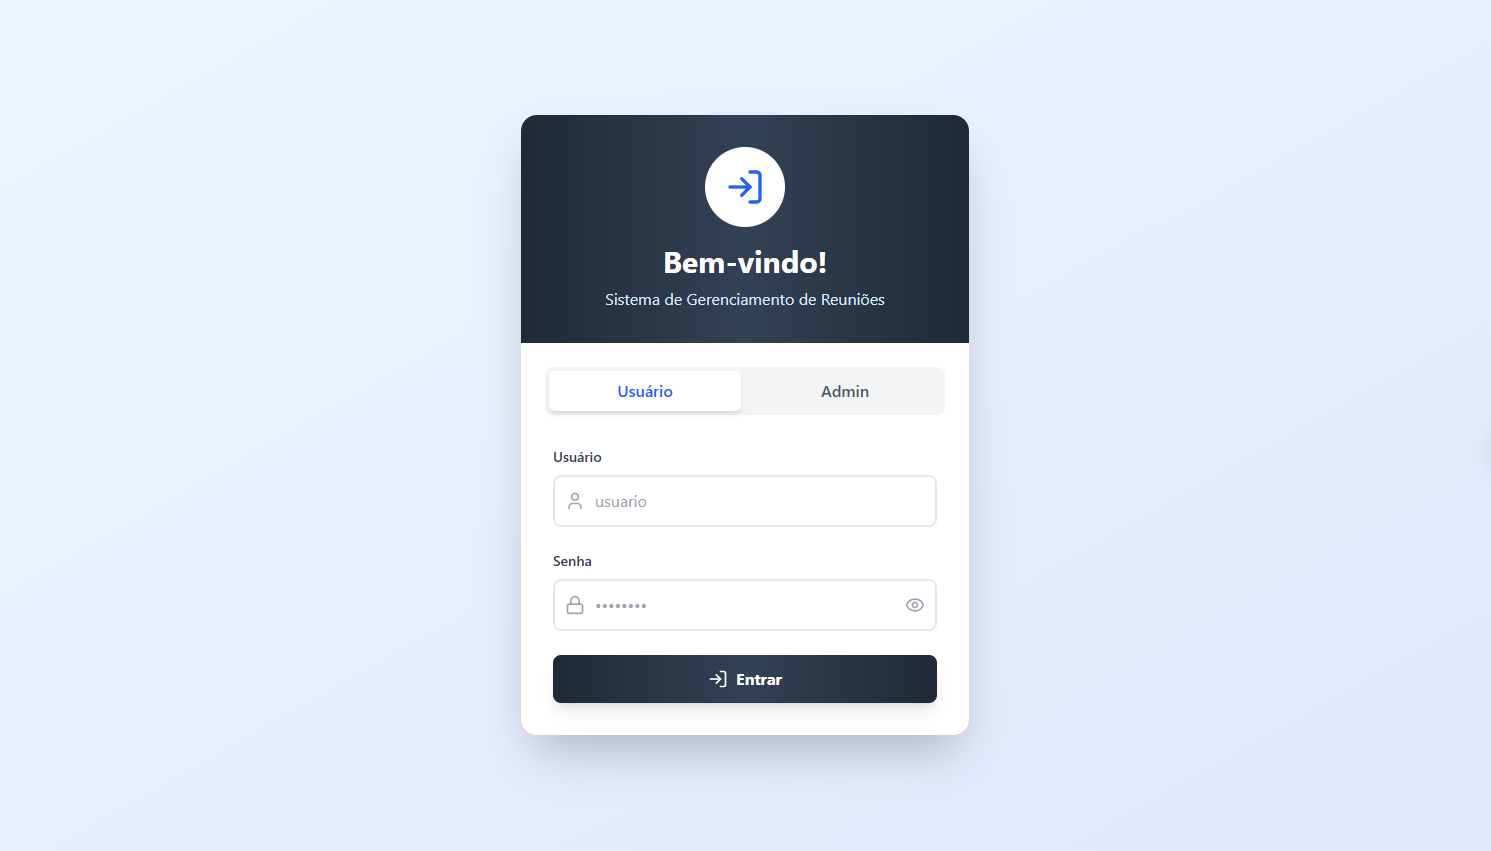
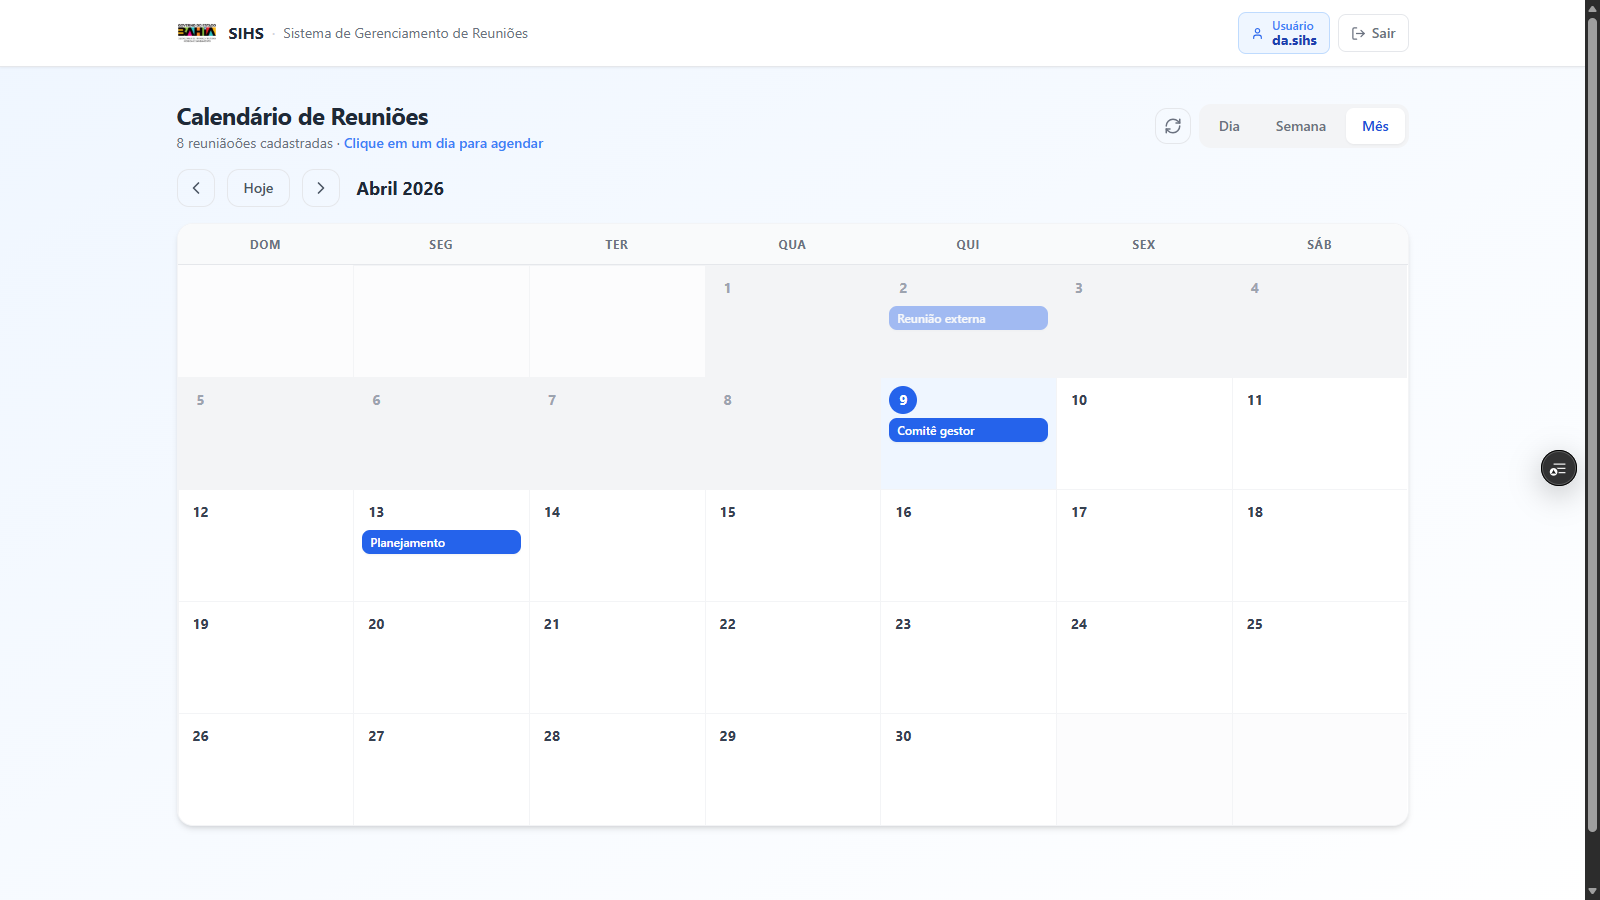
update

diff --git a/src/React/SkillsList.tsx b/src/React/SkillsList.tsx
@@ -80,10 +80,11 @@ const SkillsList = () => {
       "Accessibility (A11Y) compliance",
     ],
     "Backend & Database": [
-      "Node.js and Express.js APIs",
+      "Node.js, Express.js and Nest.js APIs",
       "Database design (SQL and NoSQL)",
       "Firebase/Supabase integration",
       "Authentication and authorization systems",
+      "Java Spring Boot and Python Flask APIs",
     ],
     "DevOps & Best Practices": [
       "Git version control and team collaboration",